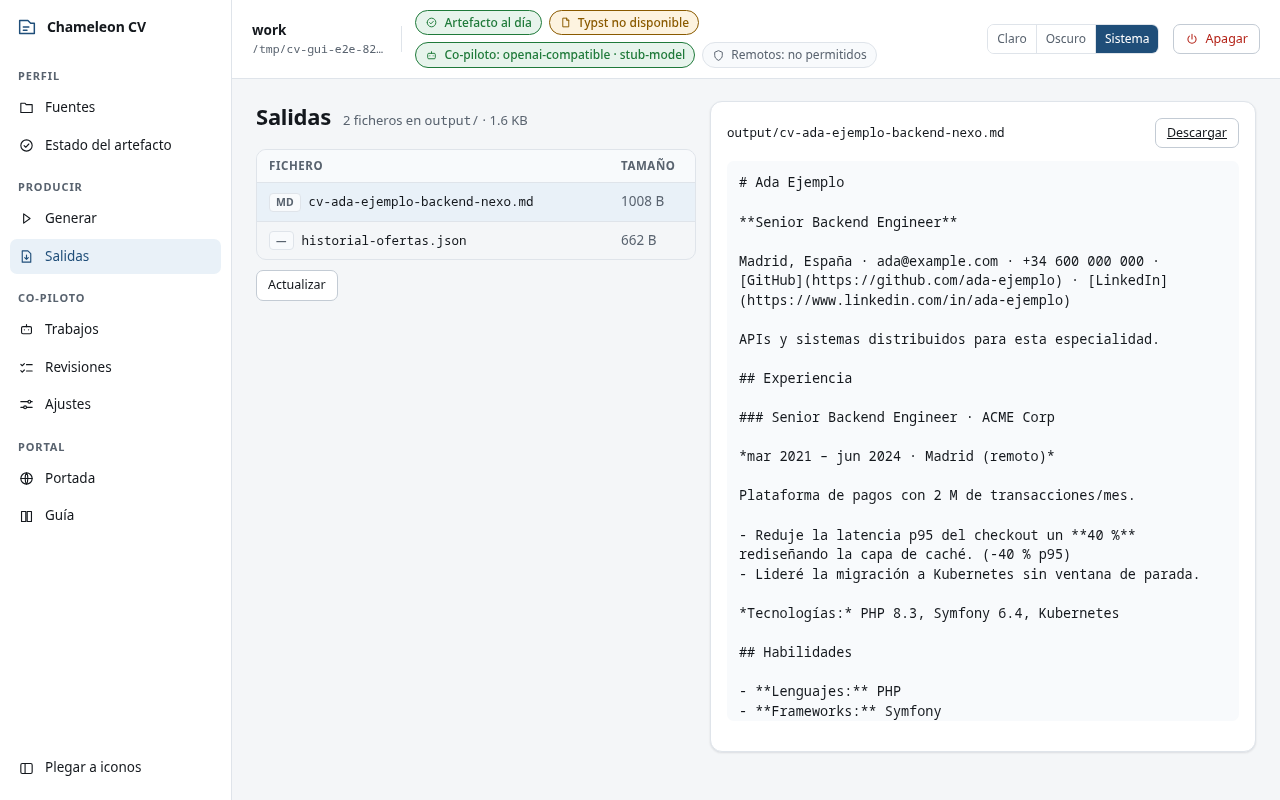
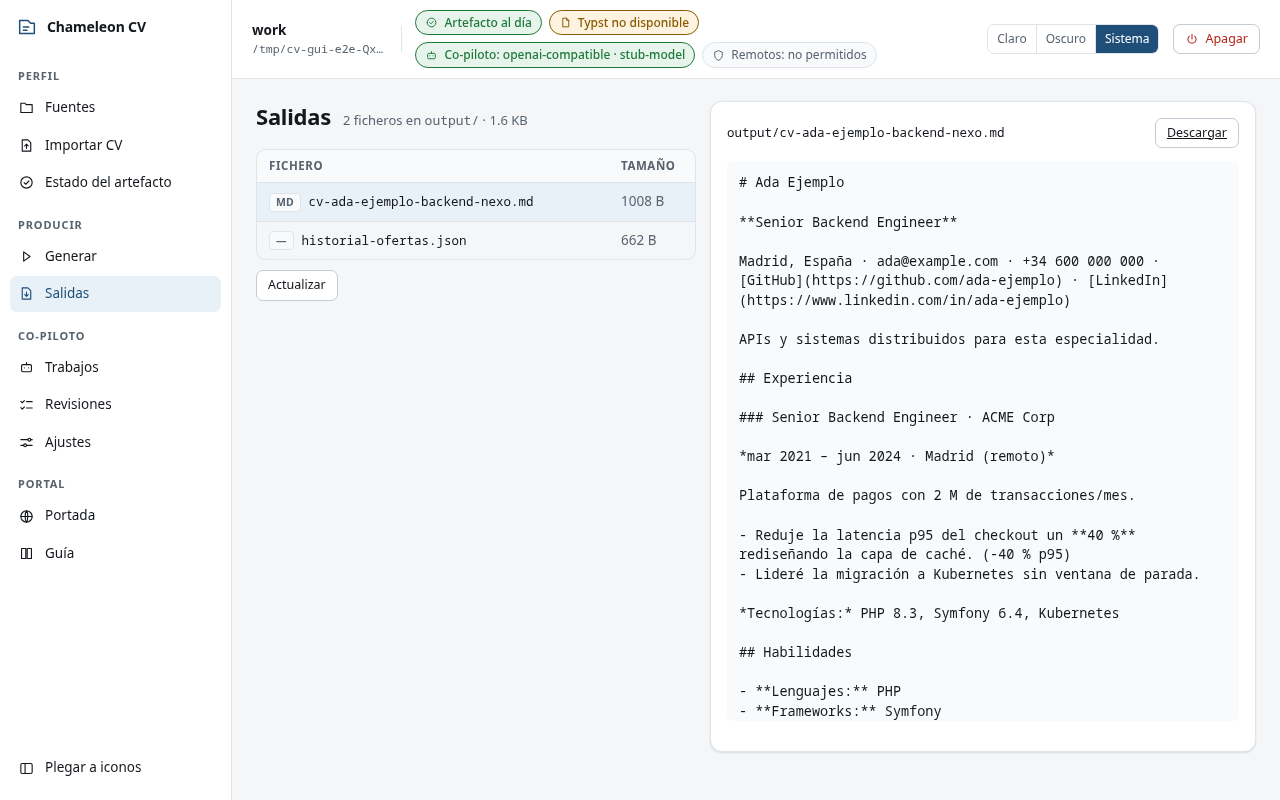
docs: se descarta la exportación «completa» de LinkedIn y se regeneran las capturas
La decisión que T-9.8 dejó anotada: no se admite. No aporta ningún dato
que la selección concreta no traiga —los nueve CSV que se leen están en
las dos—, tarda hasta 24 horas en vez de diez minutos y añadiría
superficie y datos personales que no queremos tocar.

Y las siete capturas del portal, al día con el render actual: quedaban
seis con el de la versión anterior de Chromium desde que se añadió la
casilla del co-piloto.

Claude-Session: https://claude.ai/code/session_019pLhYCZLj8gsnHPAxN1T3Y

diff --git a/ROADMAP.md b/ROADMAP.md
@@ -214,7 +214,7 @@ Visión posterior confirmada por el Director el 2026-08-29, **sin planificar tod
 -   [x] **T-9.11: [CLI/API/GUI] Elegir qué NO entra** (encargo del PO del 1-sep: «al generar un cv además de seleccionar qué proyectos y skills me interesa añadir, me interesa lo mismo pero para excluir»). **HECHA el 1-sep**: `--exclude-skills` y `--exclude-projects` son la otra mitad de `--skills`/`--projects` y comparten todo con ellas —emparejado por id o por nombre, aviso de lo que se nombra y no existe, y el recorte contado en el informe—. El núcleo pasa a tener `partitionByList` y de ahí salen `keepListed` y `dropListed`, que es la misma pregunta leída al derecho y al revés; primero se aplica la inclusión y sobre su resultado la exclusión, así que las dos listas se combinan. En la web, cada selector de «Afinar el contenido» gana un conmutador «Solo estas» / «Todas menos estas» —una sola lista y un modo, en vez de dos selectores—, y en la API son `excludeSkills` y `excludeProjects`. **Alcance deliberado**: quitar una skill la saca de la sección de habilidades y **no** reescribe las «Tecnologías» que un empleo declara, porque eso es un hecho de ese empleo (mismo criterio que `--skills`).
 -   [x] **T-9.9: [GUI/LLM] Guardar la clave de un remoto desde Ajustes** (encargo del PO del 31-ago: «me gustaría que en ajustes web pudiera setear la clave»). Hasta hoy la propia pantalla decía lo contrario —«las claves… nunca pasan por esta página»— y era una decisión deliberada de T-8.2, así que se revisó antes de cambiarla: el servidor solo escucha en loopback, exige el token de sesión y **no registra los cuerpos** de las peticiones, y `GET /config/llm` ya daba únicamente la procedencia. **HECHA el 31-ago**: `PUT` y `DELETE /api/v1/config/llm/keys/{proveedor}` sobre `writeApiKey`/`removeApiKey` (el mismo fichero 0600 que la CLI) y campo por proveedor en Ajustes. **Lo que se conserva de la promesa, que es la mitad que importaba: las claves no se LEEN nunca**; la clave viaja una sola vez en el cuerpo, ninguna respuesta la devuelve ni enmascarada, el campo se vacía al guardar y si una variable de entorno la tapa, la página lo dice. Documentado el cambio de criterio en `docs/llm-integration.md` y en la guía del portal.
 -   [x] **T-9.8: [IMPORT] Importar desde LinkedIn** (encargo del PO del 31-ago: «a partir de la url de linkedin se descargue el cv y lo analice y lo use como fuente»). **La URL se descartó con medida y el PO eligió la exportación oficial**: el `robots.txt` de LinkedIn dice `User-agent: *` → `Disallow: /` con aviso expreso, y una URL de perfil devuelve el muro de acceso («Sign in» ×21, «Join now» ×9), no el CV. **HECHA el 31-ago** (`docs/cv-import.md` §8): `src/import/linkedin.ts` lee los nueve CSV que importan del zip con el lector de zip contenido y produce el MISMO `DraftProfile` que el importador de PDF; `cv import-linkedin <zip>`; y la escritura del borrador se extrajo de `import-cv.ts` a `writeDraft`, compartida por todos los orígenes (C14), en vez de duplicarla. Sin red. Ventaja medida: al venir de datos estructurados **no queda ninguna línea «sin situar»**, frente a las 3–109 que deja el mismo perfil importado como PDF.
-    -   **Pantalla web HECHA el 31-ago**: selector «Origen» en `Perfil → Importar CV` y `POST /api/v1/import-linkedin` (cuerpo binario zip) sobre el mismo núcleo. **Pendiente**: decidir si se admite también la exportación «completa», que trae decenas de CSV de mensajes y conexiones que no son un CV.
+    -   **Pantalla web HECHA el 31-ago**: selector «Origen» en `Perfil → Importar CV` y `POST /api/v1/import-linkedin` (cuerpo binario zip) sobre el mismo núcleo. **DECIDIDO el 1-sep por el PO: se descarta admitir la exportación «completa»**. Trae decenas de CSV de mensajes, anuncios y conexiones que no son un CV, tarda hasta 24 horas en generarse frente a los diez minutos de la selección concreta, y no aporta ni un dato que la selección no traiga: los nueve CSV que se leen están en las dos. Admitirla solo añadiría superficie —ficheros que ignorar y datos personales que no queremos ni tocar— a cambio de nada. La guía ya recomienda la selección concreta y así se queda.
 -   [x] **T-9.7: [DOCS] Portal en inglés** (T-7.1b, registrada por el Director el 2026-08-29). **PRIMERA FASE HECHA el 31-ago**: `website/.vitepress/config.mts` reorganizado en dos `locales` (castellano en la raíz, inglés en `/en/`) con nav, barra lateral, buscador y textos de interfaz propios; traducidas la portada (`src/en/index.md`) y el inicio rápido (`src/en/guide/quickstart.md`). Portal construyendo con las dos y los siete tutoriales en verde.
     -   **Decisión**: lo no traducido se enlaza **marcado «(es)»** desde una sección «Not translated yet» de la barra lateral inglesa, en vez de ocultarlo o de dejar enlaces que parecen ingleses y no lo son.
     -   **DECISIÓN DEL PO (31-ago), la que desbloqueaba el resto: la CLI se queda en castellano** y el portal inglés documenta una herramienta que habla castellano. Descartadas las otras dos salidas —traducir la CLI (exige i18n en el núcleo, cientos de cadenas y **duplicar o parametrizar los 202 goldens** del arnés, que es la red que caza casi todo) y pasarla a inglés dejando el portal castellano (le da la vuelta al proyecto)—. Consecuencia directa: la **referencia de comandos, que se genera de `--help`, se queda en castellano** y se enlaza marcada «(es)» mientras eso no cambie.

diff --git a/docs/cv-import.md b/docs/cv-import.md
@@ -161,8 +161,11 @@ y lo único propio de LinkedIn es el mapeo de columnas.
 
 ### §8.3 Fuera de alcance
 
-Descargar desde la URL (§8, decidido); la exportación «completa» de LinkedIn, que trae decenas de CSV de
-mensajes, anuncios y conexiones que no son un CV; y la pantalla web, que iría después con el mismo núcleo.
+Descargar desde la URL (§8, decidido) y la exportación «completa» de LinkedIn: **descartada por el PO el
+1-sep-2026**. Trae decenas de CSV de mensajes, anuncios y conexiones que no son un CV, tarda hasta 24 horas
+frente a los diez minutos de la selección concreta, y **no aporta ningún dato que la selección no traiga** (los
+nueve CSV que se leen están en las dos). Admitirla solo añadiría superficie y datos personales que no queremos
+tocar. La pantalla web sí se hizo, con el mismo núcleo (§8.2).
 
 ## §9 El «Guardar como PDF» de un perfil de LinkedIn (B-13)
 
